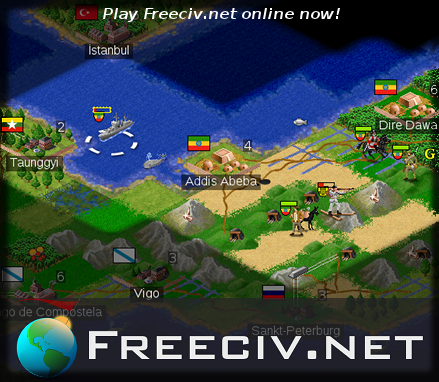
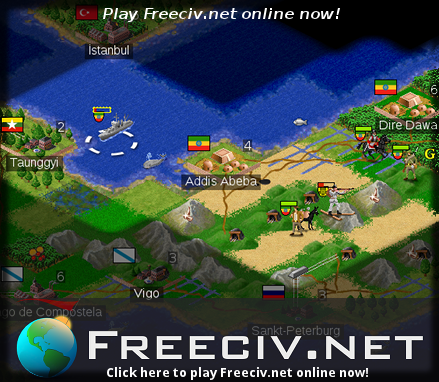
Update to mapview rendering.

Changed region(s): [[0.2369, 0.9503, 0.8588, 1.0]]

diff --git a/freeciv-web/src/main/webapp/javascript-compressed/webclient.js b/freeciv-web/src/main/webapp/javascript-compressed/webclient.js
@@ -79,7 +79,7 @@ keyboard_input=!0}},{text:"Ok",click:function(){var a=$("#city_name_req").val(),
 !1}function next_city(){if(client.conn.playing){var a=!1;for(city_id in cities){var b=cities[city_id];if(a&&city_owner(b).playerno==client.conn.playing.playerno){show_city_dialog(b);return}active_city.id==city_id&&(a=!0)}for(city_id in cities)if(b=cities[city_id],a&&city_owner(b).playerno==client.conn.playing.playerno){show_city_dialog(b);break}}}
 function city_sell_improvement(a){confirm("Are you sure you want to sell this building?")&&send_request(JSON.stringify({type:packet_city_sell,city_id:active_city.id,build_id:a}))};var client={conn:{}},client_frozen=!1,chatbox_active=!0,chatbox_text=" ",previous_scroll=0,phase_start_time=0,debug_active=!1;
 function civclient_init(){setup_crash_reporting();window.loadFirebugConsole?window.loadFirebugConsole():window.console||(console={log:function(){},debug:function(){},info:function(){},warn:function(){},assert:function(){}});game_init();network_init();init_mapview();control_init();timeoutTimerId=setInterval("update_timeout()",1E3);update_game_status_panel();statusTimerId=setInterval("update_game_status_panel()",6E3);window.requestAnimFrame=function(){return window.requestAnimationFrame||window.webkitRequestAnimationFrame||
-window.mozRequestAnimationFrame||window.oRequestAnimationFrame||window.msRequestAnimationFrame||function(a){window.setTimeout(a,MAPVIEW_REFRESH_INTERVAL)}}();(function b(){update_map_canvas_check();requestAnimFrame(b,mapview_canvas)})();if(!Array.indexOf)Array.prototype.indexOf=function(b){for(var c=0;c<this.length;c++)if(this[c]==b)return c;return-1};$("#tabs").tabs();$(".button").button();load_game_check();observe_game_check();observing?show_dialog_message("Welcome to Freeciv.net","Please wait while you are being logged in as an observer in the game."):
+window.mozRequestAnimationFrame||window.oRequestAnimationFrame||window.msRequestAnimationFrame||function(a){window.setTimeout(a,MAPVIEW_REFRESH_INTERVAL)}}();requestAnimFrame(update_map_canvas_check,mapview_canvas);if(!Array.indexOf)Array.prototype.indexOf=function(a){for(var b=0;b<this.length;b++)if(this[b]==a)return b;return-1};$("#tabs").tabs();$(".button").button();load_game_check();observe_game_check();observing?show_dialog_message("Welcome to Freeciv.net","Please wait while you are being logged in as an observer in the game."):
 is_iphone()?autostartTimerId=setTimeout("iphone_autostart();",1E3):show_intro_dialog("Welcome to Freeciv.net","You have now joined the game. Before the game begins, you can customize game options or wait for more players to join the game.  <br><br>Click the start game button to begin the game immediately, or click customize game to change the game settings.")}function chatbox_resized(){var a=$("#game_chatbox_panel").parent().height()-58;$("#game_message_area").css("height",a)}
 function init_chatbox(){chatbox_active=!0;$("#game_chatbox_panel").attr("title","Messages");$("#game_chatbox_panel").dialog({bgiframe:!0,modal:!1,width:"60%",height:"auto",resizable:!0,dialogClass:"chatbox_dialog",resize:chatbox_resized,position:["center","top"],close:function(){chatbox_active=!1}});$("#game_chatbox_panel").dialog("open");$(".chatbox_dialog div.ui-dialog-titlebar").css("height","5px");$(".chatbox_dialog div.ui-dialog-content").css("padding","5px 0");$("#ui-dialog-title-game_chatbox_panel").css("margin-top",
 "-5px");$("#ui-dialog-title-game_chatbox_panel").css("font-size","10px");$("#game_chatbox_panel").parent().css("background","rgba(0,0,0,0.6)");$("#game_chatbox_panel").parent().css("background-color","rgba(0,0,0, 0.6)");$("#game_chatbox_panel").parent().css("top","60px")}
@@ -100,7 +100,8 @@ function show_new_game_message(){observing||(is_iphone()?show_dialog_message("We
 function network_websocket_init(){ws=new io.Socket(window.location.hostname,{port:8002,rememberTransport:!1});ws.connect();ws.addEvent("connect",function(){ws.send(username+";"+civserverport)});ws.addEvent("message",function(a){client_handle_packet(jQuery.parseJSON(a))})}function network_stop(){clearInterval(syncTimerId)}
 function sync_civclient(){if(!isWorking&&(isWorking=!0,!over_error_threshold())){var a=JSON.stringify([]);$.ajax({url:civwebserver_url,type:"POST",data:a,dataType:"json",success:client_handle_packet,error:function(a,c){js_breakpad_report("Network error: "+c+"\n"+a.status+"\n"+a.statusText+"\n\n"+a.responseText+"\n\n","clinet.js",62)}})}}
 function send_request(a){websocket_enabled?ws.send(a):$.post(civwebserver_url,a,client_handle_packet,"json");debug_active&&(clinet_last_send=(new Date).getTime())}function clinet_debug_collect(){var a=(new Date).getTime()-clinet_last_send;debug_client_speed_list.push(a);clinet_last_send=(new Date).getTime()};var connections={},conn_ping_info={},debug_ping_list=[];function find_conn_by_id(a){return connections[a]}function client_remove_cli_conn(a){delete connections[a.id]}function conn_list_append(a){connections[a.id]=a};var mouse_x,mouse_y,prev_mouse_x,prev_mouse_y,keyboard_input=!0,unitpanel_active=!1,allow_right_click=!1,current_focus=[],goto_active=!1,SELECT_POPUP=0,SELECT_SEA=1,SELECT_LAND=2,SELECT_APPEND=3,intro_click_description=!0,goto_request_map={},goto_turns_request_map={},current_goto_path=[],current_goto_turns=0;
-function control_init(){$(document).keydown(keyboard_listener);$("#canvas").mouseup(mapview_mouse_click);$("#canvas").mousedown(mapview_mouse_down);$("#city_canvas").click(city_mapview_mouse_click);$("#game_text_input").keydown(function(a){return check_text_input(a,$("#game_text_input"))});$("#game_text_input").focus(function(){keyboard_input=!1});$("#game_text_input").blur(function(){keyboard_input=!0});document.onselectstart=function(){return!1}}
+function control_init(){$(document).keydown(keyboard_listener);$("#canvas").mouseup(mapview_mouse_click);$("#canvas").mousedown(mapview_mouse_down);$("#city_canvas").click(city_mapview_mouse_click);$("#turn_done_button").click(send_end_turn);$("#freeciv_logo").click(function(){window.open("http://www.freeciv.net/","_new")});$("#game_text_input").keydown(function(a){return check_text_input(a,$("#game_text_input"))});$("#game_text_input").focus(function(){keyboard_input=!1});$("#game_text_input").blur(function(){keyboard_input=
+!0});document.onselectstart=function(){return!1}}
 function mouse_moved_cb(a){mouse_y=mouse_x=0;if(!a)a=window.event;if(a.pageX||a.pageY)mouse_x=a.pageX,mouse_y=a.pageY;else if(a.clientX||a.clientY)mouse_x=a.clientX,mouse_y=a.clientY;mapview_canvas!=null&&(mouse_x-=mapview_canvas.offsetLeft,mouse_y-=mapview_canvas.offsetTop);client.conn.playing!=null&&(goto_active&&current_focus.length>0&&(a=canvas_pos_to_tile(mouse_x,mouse_y),a!=null&&goto_request_map[a.x+","+a.y]==null&&preview_goto_path(current_focus[0].id,a.x,a.y)),C_S_RUNNING==client_state()&&
 update_mouse_cursor())}function update_mouse_cursor(){var a=canvas_pos_to_tile(mouse_x,mouse_y);if(a!=null){var b=find_visible_unit(a),a=tile_city(a);mapview_canvas.style.cursor=goto_active?"crosshair":a!=null&&city_owner_player_id(a)==client.conn.playing.playerno?"pointer":b!=null&&b.owner==client.conn.playing.playerno?"move":"default"}}
 function check_text_input(a,b){if(a.keyCode==13&&a.shiftKey==0){var c=$(b).val(),c=escape(c.replace(/^\s+|\s+$/g,""));$(b).val("");$(b).focus();keyboard_input=!0;c=JSON.stringify({type:packet_chat_msg_req,message:c});send_request(c);return!1}}function get_focus_unit_on_tile(a){var b=get_units_in_focus();if(b==null)return null;for(var c=0;c<b.length;c++){var d=b[c];if(d.x==a.x&&d.y==a.y)return d}return null}
@@ -765,12 +766,12 @@ m=w+l%(g-w);o=Math.floor(y+l/(g-w));q=m+o;p=o-m;if((m+o)%2==0)m%2==0&&o%2==0?(m+
 function put_one_element(a,b,c,d,e,f,g,h,k,l){b=fill_sprite_array(b,c,d,e,f,g,l);c=c!=null&&draw_fog_of_war&&TILE_KNOWN_UNSEEN==tile_get_known(c);put_drawn_sprites(a,h,k,b,c)}
 function put_drawn_sprites(a,b,c,d){for(var e=0;e<d.length;e++){var f=0,g=0;"offset_x"in d[e]&&(f+=d[e].offset_x);"offset_y"in d[e]&&(g+=d[e].offset_y);d[e].key=="city_text"?mapview_put_city_text(a,d[e].text,b+f,c+g):d[e].key=="unit_activity_text"?mapview_put_unit_text(a,d[e].text,b+f,c+g):mapview_put_tile(a,d[e].key,b+f,c+g)}}function base_canvas_to_map_pos(a,b){return gui_to_map_pos(a+mapview.gui_x0,b+mapview.gui_y0)}
 function canvas_pos_to_tile(a,b){var c=base_canvas_to_map_pos(a,b);return map_pos_to_tile(c.map_x,c.map_y)}function update_map_canvas_full(){tiles!=null&&civclient_state>=C_S_RUNNING&&(sprites_init||init_cache_sprites(),active_city==null&&(mapview_slide.active?update_map_slide():(update_map_canvas(0,0,mapview.store_width,mapview.store_height),update_goto_path_lines(),check_request_goto_path()),last_redraw_time=(new Date).getTime()))}
-function update_map_canvas_check(){((new Date).getTime()-last_redraw_time>MAPVIEW_REFRESH_INTERVAL||mapview_slide.active)&&update_map_canvas_full()}
+function update_map_canvas_check(){((new Date).getTime()-last_redraw_time>MAPVIEW_REFRESH_INTERVAL||mapview_slide.active)&&update_map_canvas_full();requestAnimFrame(update_map_canvas_check,mapview_canvas)}
 function update_goto_path_lines(){if(goto_active){for(var a=0;a<current_goto_path.length-1;a++){var b=current_goto_path[a],c=current_goto_path[a+1];if(!(b.x==map.xsize-1&&c.x==0)&&!(c.x==map.xsize-1&&b.x==0)){var d=map_to_gui_pos(b.x,b.y),b=d.gui_dx-mapview.gui_x0+tileset_tile_width/2,d=d.gui_dy-mapview.gui_y0+tileset_tile_height/2,c=map_to_gui_pos(c.x,c.y);drawGotoLine(mapview_canvas_ctx,b,d,c.gui_dx-mapview.gui_x0+tileset_tile_width/2,c.gui_dy-mapview.gui_y0+tileset_tile_height/2)}}current_goto_turns!=
 void 0?$("#turns_to_target").html("Turns to target: "+current_goto_turns):$("#turns_to_target").html("-")}}
-function enable_mapview_slide(a){var b=map_to_gui_pos(a.x,a.y),a=b.gui_dx,b=b.gui_dy;a-=mapview.width-tileset_tile_width>>1;b-=mapview.height-tileset_tile_height>>1;a-=mapview.gui_x0;b-=mapview.gui_y0;if(Math.abs(a)>mapview.width||Math.abs(b)>mapview.height)update_map_canvas_full();else{mapview_slide.active=!0;var c=mapview.width+Math.abs(a),d=mapview.height+Math.abs(b),e=mapview.store_width,f=mapview.store_height;mapview_canvas=buffer_canvas;mapview_canvas.width=c;mapview_canvas.height=d;mapview_canvas_ctx=
-buffer_canvas_ctx;a==0&&b==0?mapview_slide.active=!1:(a>=0&&b<=0?mapview.gui_y0-=Math.abs(b):a>=0&&b>=0||(a<=0&&b>=0?mapview.gui_x0-=Math.abs(a):a<=0&&b<=0&&(mapview.gui_x0-=Math.abs(a),mapview.gui_y0-=Math.abs(b))),mapview.store_width=c,mapview.store_height=d,mapview.width=c,mapview.height=d,update_map_canvas(0,0,mapview.store_width,mapview.store_height),update_goto_path_lines(),check_request_goto_path(),buffer_canvas=mapview_canvas,buffer_canvas_ctx=mapview_canvas_ctx,mapview_canvas=document.getElementById("canvas"),
-mapview_canvas_ctx=mapview_canvas.getContext("2d"),has_canvas_text_support||CanvasTextFunctions.enable(mapview_canvas_ctx),mapview.store_width=e,mapview.store_height=f,mapview.width=e,mapview.height=f,mapview_slide.dx=a,mapview_slide.dy=b,mapview_slide.i=mapview_slide.max,mapview_slide.start=(new Date).getTime())}}
+function enable_mapview_slide(a){var b=map_to_gui_pos(a.x,a.y),a=b.gui_dx,b=b.gui_dy;a-=mapview.width-tileset_tile_width>>1;b-=mapview.height-tileset_tile_height>>1;a-=mapview.gui_x0;b-=mapview.gui_y0;mapview_slide.dx=a;mapview_slide.dy=b;mapview_slide.i=mapview_slide.max;if(Math.abs(a)>mapview.width||Math.abs(b)>mapview.height)update_map_canvas_full();else{mapview_slide.active=!0;var c=mapview.width+Math.abs(a),d=mapview.height+Math.abs(b),e=mapview.store_width,f=mapview.store_height;mapview_canvas=
+buffer_canvas;mapview_canvas.width=c;mapview_canvas.height=d;mapview_canvas_ctx=buffer_canvas_ctx;a==0&&b==0?mapview_slide.active=!1:(a>=0&&b<=0?mapview.gui_y0-=Math.abs(b):a>=0&&b>=0||(a<=0&&b>=0?mapview.gui_x0-=Math.abs(a):a<=0&&b<=0&&(mapview.gui_x0-=Math.abs(a),mapview.gui_y0-=Math.abs(b))),mapview.store_width=c,mapview.store_height=d,mapview.width=c,mapview.height=d,update_map_canvas(0,0,mapview.store_width,mapview.store_height),update_goto_path_lines(),check_request_goto_path(),buffer_canvas=
+mapview_canvas,buffer_canvas_ctx=mapview_canvas_ctx,mapview_canvas=document.getElementById("canvas"),mapview_canvas_ctx=mapview_canvas.getContext("2d"),has_canvas_text_support||CanvasTextFunctions.enable(mapview_canvas_ctx),mapview.store_width=e,mapview.store_height=f,mapview.width=e,mapview.height=f,mapview_slide.start=(new Date).getTime())}}
 function update_map_slide(){if(mapview_slide.i<=0)mapview_slide.active=!1;else{dx=mapview_slide.dx;dy=mapview_slide.dy;var a=0,b=0;mapview_slide.i-=1;dx>=0&&dy<=0?(a=Math.floor(dx*((mapview_slide.max-mapview_slide.i)/mapview_slide.max)),b=Math.floor(dy*(-1*mapview_slide.i/mapview_slide.max))):dx>=0&&dy>=0?(a=Math.floor(dx*((mapview_slide.max-mapview_slide.i)/mapview_slide.max)),b=Math.floor(dy*((mapview_slide.max-mapview_slide.i)/mapview_slide.max))):dx<=0&&dy>=0?(a=Math.floor(dx*(-1*mapview_slide.i/
 mapview_slide.max)),b=Math.floor(dy*((mapview_slide.max-mapview_slide.i)/mapview_slide.max))):dx<=0&&dy<=0&&(a=Math.floor(dx*(-1*mapview_slide.i/mapview_slide.max)),b=Math.floor(dy*(-1*mapview_slide.i/mapview_slide.max)));mapview_canvas_ctx.drawImage(buffer_canvas,a,b,mapview.width,mapview.height,0,0,mapview.width,mapview.height);(new Date).getTime();a=(new Date).getTime()-last_redraw_time;mapview_slide.i-=Math.floor(mapview_slide.max/(mapview_slide.slide_time/a))}};var mapview_canvas_ctx=null,mapview_canvas=null,buffer_canvas_ctx=null,buffer_canvas=null,tileset_image=null,sprites={},sprites_init=!1,mapview_slide={active:!1,dx:0,dy:0,i:0,max:100,slide_time:800},height_offset=67,height_offset_iphone=110,width_offset=10,font="sans",canvas_text_font="12pt Arial",fontsize=12,has_canvas_text_support=!1,fullfog=[];
 function init_mapview(){mapview_canvas=document.getElementById("canvas");mapview_canvas_ctx=mapview_canvas.getContext("2d");buffer_canvas=document.createElement("canvas");buffer_canvas_ctx=buffer_canvas.getContext("2d");if("mozImageSmoothingEnabled"in mapview_canvas_ctx)mapview_canvas_ctx.mozImageSmoothingEnabled=!1;(has_canvas_text_support=mapview_canvas_ctx.fillText&&mapview_canvas_ctx.measureText&&!is_iphone())||CanvasTextFunctions.enable(mapview_canvas_ctx);is_iphone()&&(height_offset=height_offset_iphone,

diff --git a/freeciv-web/src/main/webapp/javascript/mapview_common.js b/freeciv-web/src/main/webapp/javascript/mapview_common.js
@@ -554,6 +554,7 @@ function update_map_canvas_check()
   if (time > MAPVIEW_REFRESH_INTERVAL || mapview_slide['active']) {
     update_map_canvas_full();
   }
+  requestAnimFrame(update_map_canvas_check, mapview_canvas);
 
 }
 
@@ -602,11 +603,14 @@ function enable_mapview_slide(ptile)
   var gui_x = r['gui_dx'];
   var gui_y = r['gui_dy'];
   
-  gui_x -= (mapview['width'] - tileset_tile_width) >> 1 ;
+  gui_x -= (mapview['width'] - tileset_tile_width) >> 1;
   gui_y -= (mapview['height'] - tileset_tile_height) >> 1;
 
   var dx = gui_x - mapview['gui_x0'];
   var dy = gui_y - mapview['gui_y0'];
+  mapview_slide['dx'] = dx;
+  mapview_slide['dy'] = dy;
+  mapview_slide['i'] = mapview_slide['max'];
 
   if (Math.abs(dx) > mapview['width'] || Math.abs(dy) > mapview['height']) {
     // sliding across map edge.
@@ -665,9 +669,6 @@ function enable_mapview_slide(ptile)
   mapview['width'] = old_width;
   mapview['height'] = old_height;
 
-  mapview_slide['dx'] = dx;
-  mapview_slide['dy'] = dy;
-  mapview_slide['i'] = mapview_slide['max'];
   mapview_slide['start'] = new Date().getTime();
  
 }
@@ -682,6 +683,7 @@ function update_map_slide()
     mapview_slide['active'] = false;
     return;
   } 
+
   dx = mapview_slide['dx'];
   dy = mapview_slide['dy'];
   var sx = 0;

diff --git a/freeciv-web/src/main/webapp/javascript/control.js b/freeciv-web/src/main/webapp/javascript/control.js
@@ -47,6 +47,12 @@ function control_init()
   $("#canvas").mousedown(mapview_mouse_down);
 
   $("#city_canvas").click(city_mapview_mouse_click);
+  
+  $("#turn_done_button").click(send_end_turn);
+  $("#freeciv_logo").click(function(event) {
+    window.open('http://www.freeciv.net/', '_new');
+    });
+
 
   $("#game_text_input").keydown(function(event) {
 	  return check_text_input(event, $("#game_text_input"));

diff --git a/freeciv-web/src/main/webapp/javascript/civclient.js b/freeciv-web/src/main/webapp/javascript/civclient.js
@@ -72,10 +72,7 @@ function civclient_init()
               };
     })();
  
-   (function animloop(){
-      update_map_canvas_check();
-      requestAnimFrame(animloop, mapview_canvas);
-    })();
+  requestAnimFrame(update_map_canvas_check, mapview_canvas);
 
 
   /*
